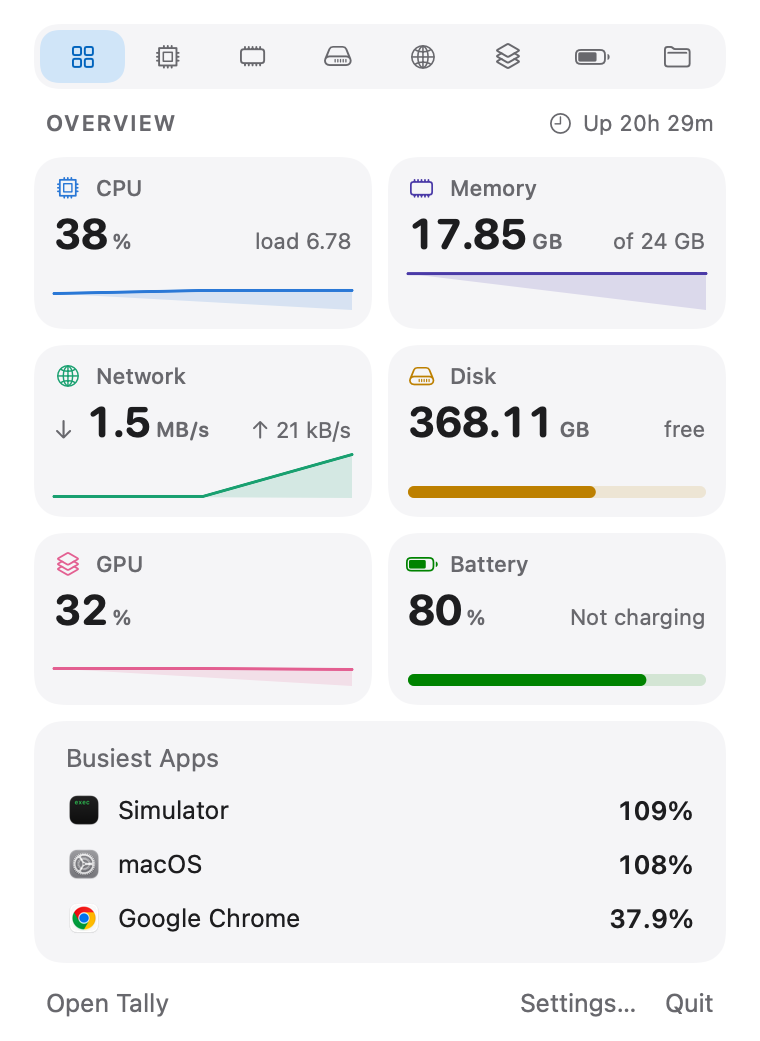
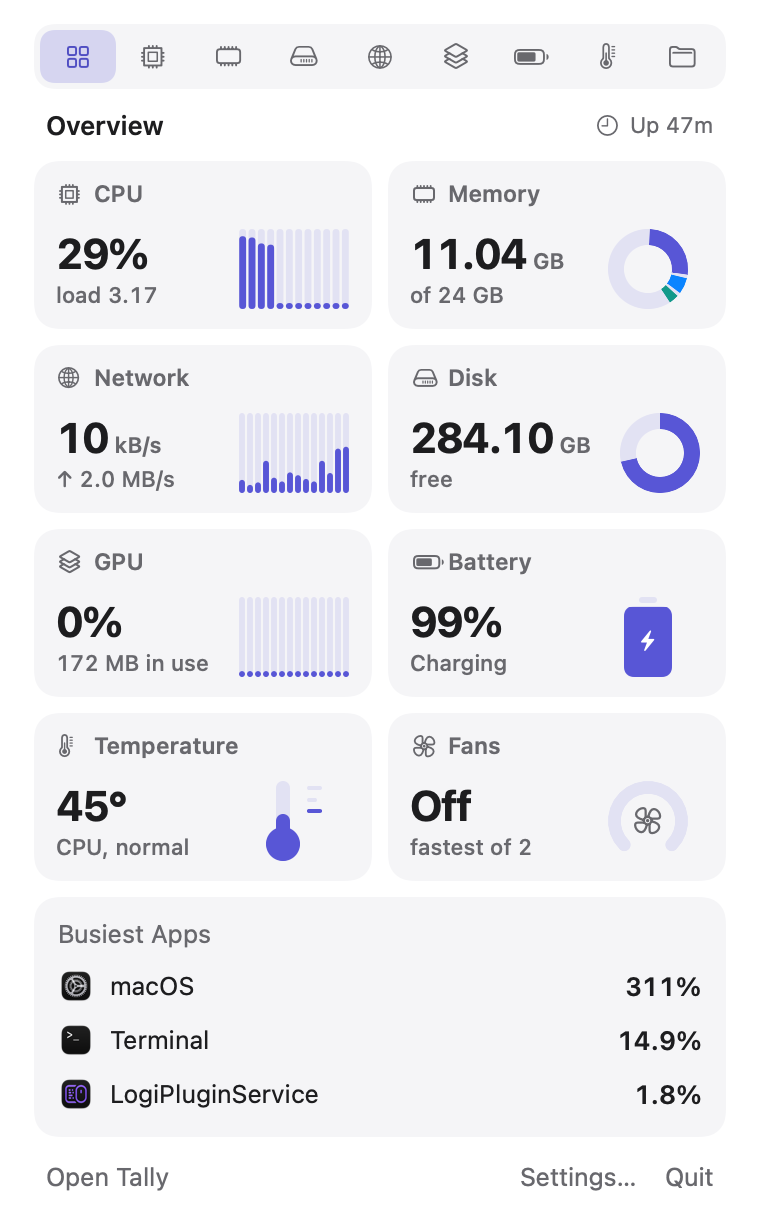
Update the docs and screenshots for the redesign

diff --git a/docs/ARCHITECTURE.md b/docs/ARCHITECTURE.md
@@ -12,11 +12,10 @@ Tally is a Swift package: a native SwiftUI and AppKit app for macOS 15 and later
 | `TallySensors`    | `SensorReader`: temperatures, fans and peripheral batteries                                   |
 | `TallyHistory`    | `HistoryStore` (SQLite, 30 days) and `AlertEngine` (notifications)                            |
 | `TallyProjects`   | `ProjectScanner` and `ProjectsView`: dev servers and open ports by project folder             |
-| `TallyAudio`      | `AudioMixer` and `VolumeMixerView`: per-app volume through Core Audio process taps            |
-| `TallyDashboard`  | `OverviewView`, `MetricTabView` and `AppInspectorView`                                        |
+| `TallyDashboard`  | `OverviewView`, `MetricTabView`, `SensorsView` and `AppInspectorView`                         |
 | `TallyMenuBar`    | `StatusItemController` and `MenuBarPanelView`                                                 |
 | `TallyExtras`     | Settings, the welcome screen, image export and the logo mark                                  |
-| `TallyFanControl` | The fan control UI and the code that installs and talks to the fan helper                     |
+| `TallyFanControl` | The fan card on the Sensors tab and the code that installs and talks to the fan helper        |
 | `TallyFanHelper`  | The root fan helper: a small daemon with no SwiftUI or AppKit, copied into the app bundle     |
 | `Tally`           | The app shell: `AppDelegate`, `WindowManager`, `MainView`, `MainMenu` and the render harness  |
 | `Probes/probe-*`  | Tiny command-line tools that print one subsystem's output                                     |
@@ -33,7 +32,9 @@ The main window drops its SwiftUI view tree when it closes, so a closed window c
 
 ## Design system
 
-`Sources/TallyCore/Design/` holds the shared look: `Palette` (every colour, light and dark), `Typography`, and components such as `Card`, `CardHeader`, `BigFigure`, `StatColumn`, `KeyValueRow`, `Meter`, `SegmentedMeter`, `Pill`, `AppIconView`, `LegendRow`, `TabPills`, `BarSparkline`, `AreaChart`, `DonutChart` and `.quitConfirmation`. Number formatting lives in `Format` (`Formatters.swift`). Build new views by composing these rather than adding one-off styles.
+`Sources/TallyCore/Design/` holds the shared look: `Palette` (every colour, light and dark), `Typography`, and components such as `Card`, `CardHeader`, `BigFigure`, `Chip`, `StatColumn`, `KeyValueRow`, `Meter`, `SegmentedMeter`, `Pill`, `AppIconView`, `LegendRow`, `TabPills`, `BarSparkline`, `AreaChart`, `DonutChart`, the gauges in `Gauges.swift` (`RingGauge`, `BatteryGlyph`, `ThermometerGlyph`, `FanGauge`, `LevelTile`) and `.quitConfirmation`. Number formatting lives in `Format` (`Formatters.swift`). Build new views by composing these rather than adding one-off styles.
+
+The look is deliberately quiet. Type is SF Pro throughout. Every chart, gauge and selection draws in one accent (`Palette.accent`), with `accentSecond` and `accentThird` for a second and third series such as system CPU or wired and compressed memory. Green, amber and red (`Palette.good`, `.caution`, `.red`) mark status only. A card is a grey symbol and title, a bold figure over a quiet detail line, small grey chips, a gauge on the right and a bar chart on faint tracks along the bottom.
 
 ## Building
 
@@ -58,7 +59,7 @@ swift build --product Tally
 .build/debug/Tally --render overview,cpu,memory --out /tmp/tally-render --wait 6 --scheme both
 ```
 
-Screen names: `overview cpu memory disk network gpu battery projects popover settings welcome export mixer inspector`. Add `--width 620` to render at another width, as the website screenshots are.
+Screen names: `overview cpu memory disk network gpu battery sensors projects popover settings welcome export inspector`. Add `--width 620` to render at another width, as the website screenshots are, and `--open-panel cpu` (or any tab name) to render that section of the menu bar panel as `popover`.
 
 `ImageRenderer` can't draw `ScrollView` contents, AppKit views or popovers, so top-level views stay free of `ScrollView` (the shell adds scrolling) and have a natural height.
 
@@ -83,7 +84,7 @@ sleep 20; top -l 20 -s 3 -pid $! -stats pid,cpu,mem
 
 ## Fan control
 
-Changing fan speeds needs root, so it lives in a separate helper (`TallyFanHelper`). When the user turns fan control on, `FanHelperInstaller` asks for an administrator password once and installs the helper as a launch daemon. The app talks to it over a Unix socket that only root and that user can open. The helper sets fans back to automatic when the app quits or the helper has been idle for a while.
+The fan controls are a card on the Sensors tab, beside the temperatures they affect. The `Tally` target hands `FanControlView` to `SensorsView`, so the dashboard never depends on the fan helper. Changing fan speeds needs root, so it lives in a separate helper (`TallyFanHelper`). When the user turns fan control on, `FanHelperInstaller` asks for an administrator password once and installs the helper as a launch daemon. The app talks to it over a Unix socket that only root and that user can open. The helper sets fans back to automatic when the app quits or the helper has been idle for a while.
 
 For testing without installing anything, start the helper by hand with `--socket <path>` (add `--dry-run` to avoid touching the fans) and point the app at it with `TALLY_FAN_HELPER_SOCKET=<path>`.
 

diff --git a/README.md b/README.md
@@ -20,7 +20,7 @@
 <p align="center">
   <picture>
     <source media="(prefers-color-scheme: dark)" srcset="docs/images/overview-dark.png">
-    <img src="docs/images/overview-light.png" width="860" alt="Tally's Overview tab showing CPU, memory, GPU, disk, network and battery, with the apps using the most">
+    <img src="docs/images/overview-light.png" width="860" alt="Tally's Overview tab showing CPU, memory, GPU, disk, network, battery, temperature and fans, with the apps using the most">
   </picture>
 </p>
 
@@ -37,15 +37,14 @@ Tally needs macOS 15 Sequoia or later and runs on both Apple silicon and Intel M
 ## What it does
 
 - **Apps, not processes.** Helper processes (renderers, GPU helpers, plugins, language servers) count toward the app that started them. One row per app, with its totals for CPU, memory, power, disk and network.
-- **Separate views for each part of your Mac.** CPU, memory, disk, network, GPU and battery, each with a live chart and a ranked list of the apps driving it.
+- **Separate views for each part of your Mac.** CPU, memory, disk, network, GPU and battery, each with a live chart and a ranked list of the apps driving it. Memory figures match Activity Monitor.
 - **A month of history.** Scroll back to see what was busy while you were away, and which apps were responsible. It all lives in a single local database.
 - **Alerts for runaway apps.** Get a heads-up when something pins the CPU, leaks memory, or won't stop writing to disk.
 - **Local servers by project.** Servers and listening ports are filed under the repo they run from. Forgotten ones that haven't done anything in days get flagged, with a stop button that asks before it acts.
 - **Menu bar monitor.** Choose a symbol, a live number, a mini chart or a stack of readings. Click it for the full picture.
 - **Every network connection.** Ethernet and Wi‑Fi each show their own speed when you're on both.
 - **SSD health.** How much rated life your drive has left, warnings it raises about itself, and everything written to and read from it since it was new.
-- **Heat, fans and accessories.** How hot the chip is running, how fast the fans spin, and charge levels for wireless accessories. Manual fan control if you want it.
-- **Volume per app.** Lower one noisy app without touching anything else.
+- **Sensors in one place.** Every temperature your Mac reports, how fast the fans spin, and charge levels for wireless accessories. Manual fan control sits right beside the readings if you want it.
 - **Quit and force quit.** From any list, and never without your confirmation.
 - **Snapshots.** Save or copy an image of your stats or the whole dashboard, in light or dark.
 
@@ -66,12 +65,11 @@ Tally only goes online when you choose **Check for Updates**, which asks GitHub 
 
 It asks for these permissions, and only when you use the feature that needs them:
 
-| Permission                      | Why                                                               |
-| ------------------------------- | ----------------------------------------------------------------- |
-| Notifications                   | Alerts about runaway apps                                         |
-| Bluetooth                       | Charge levels of wireless accessories                             |
-| Screen & System Audio Recording | Per-app volume. Audio passes straight through and is never saved. |
-| Administrator password          | Only if you install the optional fan-control helper               |
+| Permission             | Why                                                 |
+| ---------------------- | --------------------------------------------------- |
+| Notifications          | Alerts about runaway apps                           |
+| Bluetooth              | Charge levels of wireless accessories               |
+| Administrator password | Only if you install the optional fan-control helper |
 
 ## Updating
 

diff --git a/CONTRIBUTING.md b/CONTRIBUTING.md
@@ -19,7 +19,7 @@ cd tally
 open build.noindex/Tally.app
 ```
 
-Tally is a plain Swift package, so you can also open the folder in Xcode, or run `swift build` from Terminal. Some features (notifications, launch at login, the fan helper, per-app volume) only work when Tally runs as an app bundle, which is what `build-app.sh` makes.
+Tally is a plain Swift package, so you can also open the folder in Xcode, or run `swift build` from Terminal. Some features (notifications, launch at login, the fan helper) only work when Tally runs as an app bundle, which is what `build-app.sh` makes.
 
 [docs/ARCHITECTURE.md](docs/ARCHITECTURE.md) explains how the code is laid out and how data flows from the samplers to the views.
 
@@ -54,7 +54,6 @@ swift run probe-processes   # every process, grouped into apps
 swift run probe-sensors     # temperatures, fans, peripheral batteries
 swift run probe-history     # the 30-day history database
 swift run probe-projects    # dev servers and ports by project
-swift run probe-audio       # apps playing sound
 ```
 
 **The render harness** starts the real engine, waits, and writes PNGs of any screen in light and dark mode, without opening a window:
@@ -64,7 +63,7 @@ swift build --product Tally
 .build/debug/Tally --render overview,cpu,network,popover --out /tmp/tally-render --wait 6 --scheme both
 ```
 
-Screen names: `overview cpu memory disk network gpu battery projects popover settings welcome export mixer inspector`.
+Screen names: `overview cpu memory disk network gpu battery sensors projects popover settings welcome export inspector`. Add `--open-panel cpu` (or any tab name) to render that section of the menu bar panel as `popover`.
 
 **Snapshot mode** captures the real app windows, the menu bar item and panel, and Settings:
 

diff --git a/SECURITY.md b/SECURITY.md
@@ -12,7 +12,6 @@ Tally reads a lot about your Mac, so these parts matter most:
 
 - **The fan helper.** Fan control needs a small helper that runs as root, installed only if you choose to and after macOS asks for your password. Before installing it, Tally checks the helper's SHA-256 against the one sealed into the signed app, and writes the launch settings directly instead of reading them from a temporary file. It listens on a Unix socket that only root and the user who installed it can use, accepts fan-speed commands only, and puts every fan back to automatic when Tally quits or the helper goes idle. Its code is in `Sources/TallyFanHelper`.
 - **Quitting and stopping processes.** Tally only sends a signal after you confirm, and checks that the process is still the one you picked before it does.
-- **Per-app volume.** Audio from each app is tapped and played straight back out. Nothing is recorded or written to disk.
 - **Local data.** History is kept in a SQLite file in `~/Library/Application Support/Tally`. Nothing about the Mac leaves it. The only network request is the update check, which runs when you choose Check for Updates and asks GitHub's API for the latest release.
 
 ## Supported versions
